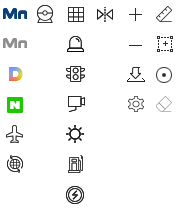
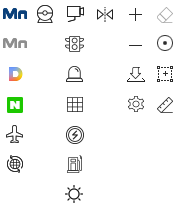
우측 메뉴 추가작업

diff --git a/src/css/right_gnb.css b/src/css/right_gnb.css
@@ -4,28 +4,53 @@
 #map_control #map_properties .com_map_tool > li { position: relative; }
 #map_control #map_properties .com_map_tool > li a { position: relative; display: block; height: 46px; background: #fff; font-size: 9px; text-align: center; border: 1px solid #d3d3d3; margin-top: -01px; padding-top: 28px; }
 #map_control #map_properties .com_map_tool > li a:after { position: absolute; top: 0; left: 50%; margin-left: -15px; display: block; content: ''; width: 30px; height: 30px; background-image: url(../../images/right_icon.png); background-repeat: no-repeat; }
-#map_control #map_properties .com_map_tool .tool_depth02 { position: absolute; top: 0; right: 0; border: 1px solid #595959; }
+#map_control #map_properties .com_map_tool > li a.tool_depth01:before { position: absolute; left: 1px; bottom: 1px; content: ''; display: block; width: 0px; height: 0px; border-right: 4px solid transparent; border-bottom: 4px solid #b1b1b1; }
+#map_control #map_properties .com_map_tool .tool_depth02 { z-index: 10; display: none; position: absolute; top: 0; right: 0; border: 1px solid #595959; padding: 1px; }
 #map_control #map_properties .com_map_tool .tool_depth02 li { float: left; border-left: 1px solid #e6e6e6; }
 #map_control #map_properties .com_map_tool .tool_depth02 li:first-child { border-left: none; }
 #map_control #map_properties .com_map_tool .tool_depth02 li:after { content: ''; display: block; clear: both; }
-#map_control #map_properties .com_map_tool .tool_depth02 li a { width: 46px; }
+#map_control #map_properties .com_map_tool .tool_depth02 li a { width: 46px; height: 44px; margin: -1px; border-top: none; border-bottom: none; }
+#map_control #map_properties .com_map_tool .tool_depth02 li a:hover { background: #f0f0f0; }
 #map_control #map_properties #first_map_tool { margin-bottom: 18px; }
 #map_control #map_properties #first_map_tool li.bg_mapico > a:after { background-position: 0px -150px; }
-#map_control #map_properties #first_map_tool li.bg_mapico .tool_depth02 { width: 276px; }
-#map_control #map_properties #first_map_tool li.bg_mapico .tool_depth02 li:nth-child(1) a:after { background-position: -30px 0; }
-#map_control #map_properties #first_map_tool li.bg_mapico .tool_depth02 li:nth-child(2) a:after { background-position: -60px 0; }
-#map_control #map_properties #first_map_tool li.bg_mapico .tool_depth02 li:nth-child(3) a:after { background-position: -90px 0; }
-#map_control #map_properties #first_map_tool li.bg_mapico .tool_depth02 li:nth-child(4) a:after { background-position: -120px 0; }
-#map_control #map_properties #first_map_tool li.bg_mapico .tool_depth02 li:nth-child(5) a:after { background-position: -150px 0; }
-#map_control #map_properties #first_map_tool li.load_mapico a:after { background-position: -30px 0px; }
-#map_control #map_properties #first_map_tool li.load_mapico .tool_depth02 { width: 276px; }
-#map_control #map_properties #first_map_tool li.additional_mapico a:after { background-position: -60px 0px; }
-#map_control #map_properties #first_map_tool li.additional_mapico .tool_depth02 { width: 276px; }
+#map_control #map_properties #first_map_tool li.bg_mapico .tool_depth02 { width: 273px; }
+#map_control #map_properties #first_map_tool li.bg_mapico .tool_depth02 li:nth-child(1) a:after { background-position: 0 -0px; }
+#map_control #map_properties #first_map_tool li.bg_mapico .tool_depth02 li:nth-child(2) a:after { background-position: 0 -30px; }
+#map_control #map_properties #first_map_tool li.bg_mapico .tool_depth02 li:nth-child(3) a:after { background-position: 0 -60px; }
+#map_control #map_properties #first_map_tool li.bg_mapico .tool_depth02 li:nth-child(4) a:after { background-position: 0 -90px; }
+#map_control #map_properties #first_map_tool li.bg_mapico .tool_depth02 li:nth-child(5) a:after { background-position: 0 -120px; }
+#map_control #map_properties #first_map_tool li.bg_mapico .tool_depth02 li:nth-child(6) a:after { background-position: 0 -150px; }
+#map_control #map_properties #first_map_tool li.load_mapico > a:after { background-position: -30px 0px; }
+#map_control #map_properties #first_map_tool li.load_mapico .tool_depth02 { width: 138px; }
+#map_control #map_properties #first_map_tool li.load_mapico .tool_depth02 li:first-child a:after { background-position: 0px -60px; }
+#map_control #map_properties #first_map_tool li.load_mapico .tool_depth02 li:nth-child(2) a:after { background-position: 0px -90px; }
+#map_control #map_properties #first_map_tool li.load_mapico .tool_depth02 li:nth-child(3) a:after { background-position: -30px 0px; }
+#map_control #map_properties #first_map_tool li.additional_mapico a:after { background-position: -60px -90px; }
+#map_control #map_properties #first_map_tool li.additional_mapico .tool_depth02 { width: 183px; }
+#map_control #map_properties #first_map_tool li.additional_mapico .tool_depth02 li:nth-child(1) a:after { background-position: -60px -0px; }
+#map_control #map_properties #first_map_tool li.additional_mapico .tool_depth02 li:nth-child(2) a:after { background-position: -60px -30px; }
+#map_control #map_properties #first_map_tool li.additional_mapico .tool_depth02 li:nth-child(3) a:after { background-position: -60px -60px; }
+#map_control #map_properties #first_map_tool li.additional_mapico .tool_depth02 li:nth-child(4) a:after { background-position: -60px -90px; }
+#map_control #map_properties #first_map_tool li.additional_mapico .tool_depth02 li:nth-child(5) a:after { background-position: -60px -120px; }
+#map_control #map_properties #first_map_tool li.additional_mapico .tool_depth02 li:nth-child(6) a:after { background-position: -60px -150px; }
+#map_control #map_properties #first_map_tool li.additional_mapico .tool_depth02 li:nth-child(7) a:after { background-position: -60px -180px; }
 #map_control #map_properties #first_map_tool li.division_mapico a:after { background-position: -90px 0px; }
-#map_control #map_properties #second_map_tool li.zoom_pluse-mapico a:after { background-position: -120px 0px; }
-#map_control #map_properties #second_map_tool li.zoom_minus-mapico a:after { background-position: -120px -30px; }
-#map_control #map_properties #second_map_tool li.length_mapico a:after { background-position: -150px 0px; }
-#map_control #map_properties #second_map_tool li.length_mapico .tool_depth02 { width: 276px; }
+#map_control #map_properties #second_map_tool li.zoom_pluse-mapico a { text-indent: 9999px; overflow: hidden; }
+#map_control #map_properties #second_map_tool li.zoom_pluse-mapico a:after { top: 8px; background-position: -120px 0px; }
+#map_control #map_properties #second_map_tool li.zoom_minus-mapico a { text-indent: 9999px; overflow: hidden; }
+#map_control #map_properties #second_map_tool li.zoom_minus-mapico a:after { top: 8px; background-position: -120px -30px; }
+#map_control #map_properties #second_map_tool li.length_mapico > a:after { background-position: -150px -90px; }
+#map_control #map_properties #second_map_tool li.length_mapico .tool_depth02 { width: 183px; }
+#map_control #map_properties #second_map_tool li.length_mapico .tool_depth02 li:nth-child(1) a:after { background-position: -150px -0px; }
+#map_control #map_properties #second_map_tool li.length_mapico .tool_depth02 li:nth-child(1) a { color: #b1b1b1; }
+#map_control #map_properties #second_map_tool li.length_mapico .tool_depth02 li:nth-child(2) a:after { background-position: -150px -30px; }
+#map_control #map_properties #second_map_tool li.length_mapico .tool_depth02 li:nth-child(1) a { color: #b1b1b1; }
+#map_control #map_properties #second_map_tool li.length_mapico .tool_depth02 li:nth-child(3) a:after { background-position: -150px -60px; }
+#map_control #map_properties #second_map_tool li.length_mapico .tool_depth02 li:nth-child(1) a { color: #b1b1b1; }
+#map_control #map_properties #second_map_tool li.length_mapico .tool_depth02 li:nth-child(4) a:after { background-position: -150px -90px; }
+#map_control #map_properties #second_map_tool li.length_mapico .tool_depth02 li:nth-child(1) a { color: #b1b1b1; }
+#map_control #map_properties #second_map_tool li.length_mapico .tool_depth02 li:nth-child(5) a:after { background-position: -150px -120px; }
+#map_control #map_properties #second_map_tool li.length_mapico .tool_depth02 li:nth-child(1) a { color: #b1b1b1; }
 #map_control #map_properties #second_map_tool li.save_mapico a:after { background-position: -120px -60px; }
 #map_control #map_properties #second_map_tool li.set_mapico a:after { background-position: -120px -90px; }
 

diff --git a/index.html b/index.html
@@ -333,30 +333,31 @@
             <div id="map_properties">
                 <ul id="first_map_tool" class="com_map_tool">
                     <li class="bg_mapico">
-                        <a href="#">배경지도</a>
+                        <a href="#" class="tool_depth01">배경지도</a>
                         <ul class="tool_depth02">
                             <li><a href="#">기본</a></li>
                             <li><a href="#">흑백</a></li>
                             <li><a href="#">다음</a></li>
                             <li><a href="#">네이버</a></li>
                             <li><a href="#">영상</a></li>
-                            <li><a href="#">배경지도</a></li>
+                            <li class="sub_close"><a href="#">배경지도</a></li>
                         </ul>
                     </li>
                     <li class="load_mapico">
-                        <a href="#">로드뷰</a>
+                        <a href="#" class="tool_depth01">로드뷰</a>
                         <ul class="tool_depth02">
                             <li><a href="#">로드뷰</a></li>
                             <li><a href="#">거리뷰</a></li>
+                            <li class="sub_close"><a href="#">로드뷰</a></li>
                         </ul>
                     </li>
                     <li class="additional_mapico">
-                        <a href="#">부가정보</a>
+                        <a href="#" class="tool_depth01">부가정보</a>
                         <ul class="tool_depth02">
                             <li><a href="#">CCTV</a></li>
                             <li><a href="#">교통</a></li>
                             <li><a href="#">유고</a></li>
-                            <li><a href="#">부가정보</a></li>
+                            <li class="sub_close"><a href="#">부가정보</a></li>
                             <li><a href="#">EV충전소</a></li>
                             <li><a href="#">유가</a></li>
                             <li><a href="#">날씨</a></li>
@@ -375,12 +376,12 @@
                         <a href="#">zoom_minus</a>
                     </li>
                     <li class="length_mapico">
-                        <a href="#">길이재기</a>
+                        <a href="#" class="tool_depth01">길이재기</a>
                         <ul class="tool_depth02">
                             <li><a href="#">초기화</a></li>
                             <li><a href="#">반경측정</a></li>
                             <li><a href="#">면적재기</a></li>
-                            <li><a href="#">길이재기</a></li>
+                            <li class="sub_close"><a href="#">길이재기</a></li>
                         </ul>
                     </li>
                     <li class="save_mapico">
@@ -567,9 +568,26 @@
             }
         }
         app.init();
-
         
     </script>
+
+    
     
 </body>
+
+<script>
+    
+    $(document).ready(function(){
+        $(".com_map_tool>li a").click(function(){
+            var submenu = $(this).next("ul");
+            var sub_close = $(this).next("ul .sub_close");
+
+            if( submenu.is(":visible") ){
+                submenu.hide();
+            }else{
+                submenu.show();
+            };
+        });
+    });
+</script>
 </html>

diff --git a/src/sass/layout/right_gnb.scss b/src/sass/layout/right_gnb.scss
@@ -10,9 +10,7 @@
 
 	#map_properties{
 		width: 46px;
-		
 		.com_map_tool{
-
 			>li{
 				position: relative;
 				a{
@@ -37,14 +35,27 @@
 						background-image: url(../../images/right_icon.png) ;
 						background-repeat: no-repeat;
 					}
+					&.tool_depth01{
+						&:before{
+							position: absolute;
+							left: 1px;
+							bottom: 1px;
+							content:'';
+							display: block;
+							width: 0px;height:0px;
+							border-right:4px solid transparent;border-bottom:4px solid #b1b1b1; 
+						}
+					}
 				}
 			}
-
 			.tool_depth02{
+				z-index: 10;
+				display: none;
 				position: absolute;
 				top: 0;
 				right: 0;
 				border: 1px solid #595959;
+				padding: 1px;
 				li{
 					float: left;
 					border-left: 1px solid #e6e6e6;
@@ -58,6 +69,13 @@
 					}
 					a{
 						width: 46px;
+						height: 44px;
+						margin: -01px ;
+						border-top: none;
+						border-bottom: none;
+						&:hover{
+							background:#f0f0f0;
+						}
 					}
 				}
 			}
@@ -77,34 +95,70 @@
 						}
 					}
 					.tool_depth02{
-						width: 276px;
-						@for $i from 1 to 6{
-							li:nth-child(#{$i}){
+						width: 273px;
+						@for $i from 0 to 6{
+							$val : 1;
+							li:nth-child(#{$val+$i}){
 								a{
-									&:after{background-position: -#{$i*30}px  0;}
+									&:after{background-position: 0 -#{$i*30}px ;}
 								}
 							}
 						}
 					}
 				}
 				&.load_mapico{
-					a{
+					>a{
 						&:after{
 							background-position: -30px 0px;
 						}
 					}
 					.tool_depth02{
-						width: 276px;
+						width: 138px;
+						li{
+							&:first-child{
+								a{
+									&:after{
+										background-position: 0px -60px;
+									}
+								}
+							}
+						}
+						li{
+							&:nth-child(2){
+								a{
+									&:after{
+										background-position: 0px -90px;
+									}
+								}
+							}
+						}
+						li{
+							&:nth-child(3){
+								a{
+									&:after{
+										background-position: -30px 0px;
+									}
+								}
+							}
+						}
 					}
 				}
 				&.additional_mapico{
 					a{
 						&:after{
-							background-position: -60px 0px;
+							background-position: -60px -90px;
 						}
 					}
 					.tool_depth02{
-						width: 276px;
+						width: 183px;
+						@for $i from 0 to 7{
+							$val : 1;
+							li:nth-child(#{$val+$i}){
+								a{
+									&:after{background-position: -60px -#{$i*30}px ;}
+								}
+							}
+						}
 					}
 				}
 				&.division_mapico{
@@ -121,28 +175,44 @@
 			li{
 				&.zoom_pluse-mapico{
 					a{
+						text-indent: 9999px;
+						overflow: hidden;
 						&:after{
+							top:8px;
 							background-position: -120px 0px;
 						}
 					}
 				}
 				&.zoom_minus-mapico{
 					a{
+						text-indent: 9999px;
+						overflow: hidden;
 						&:after{
+							top:8px;
 							background-position: -120px -30px;
 						}
-					}
+					} 
 				}
 				&.length_mapico{
-					a{
+					>a{
 						&:after{
-							background-position: -150px 0px;
+							background-position: -150px -90px;
 						}
 					}
 					.tool_depth02{
-						width: 276px;
+						width: 183px;
+						@for $i from 0 to 5{
+							$val : 1;
+							li:nth-child(#{$val+$i}){
+								a{
+									&:after{background-position: -150px -#{$i*30}px}
+								}
+							}
+							li:nth-child(1) a{color:#b1b1b1;}
+						}
 					}
 				}
+			
 				&.save_mapico{
 					a{
 						&:after{
